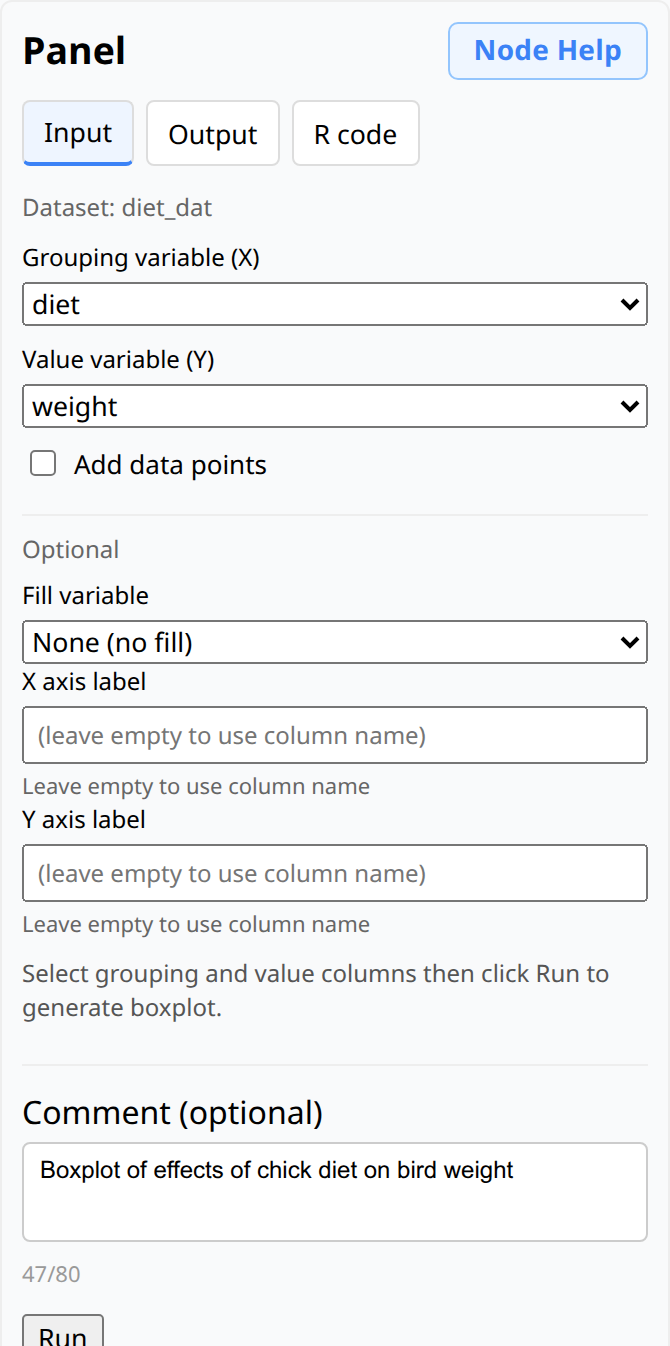
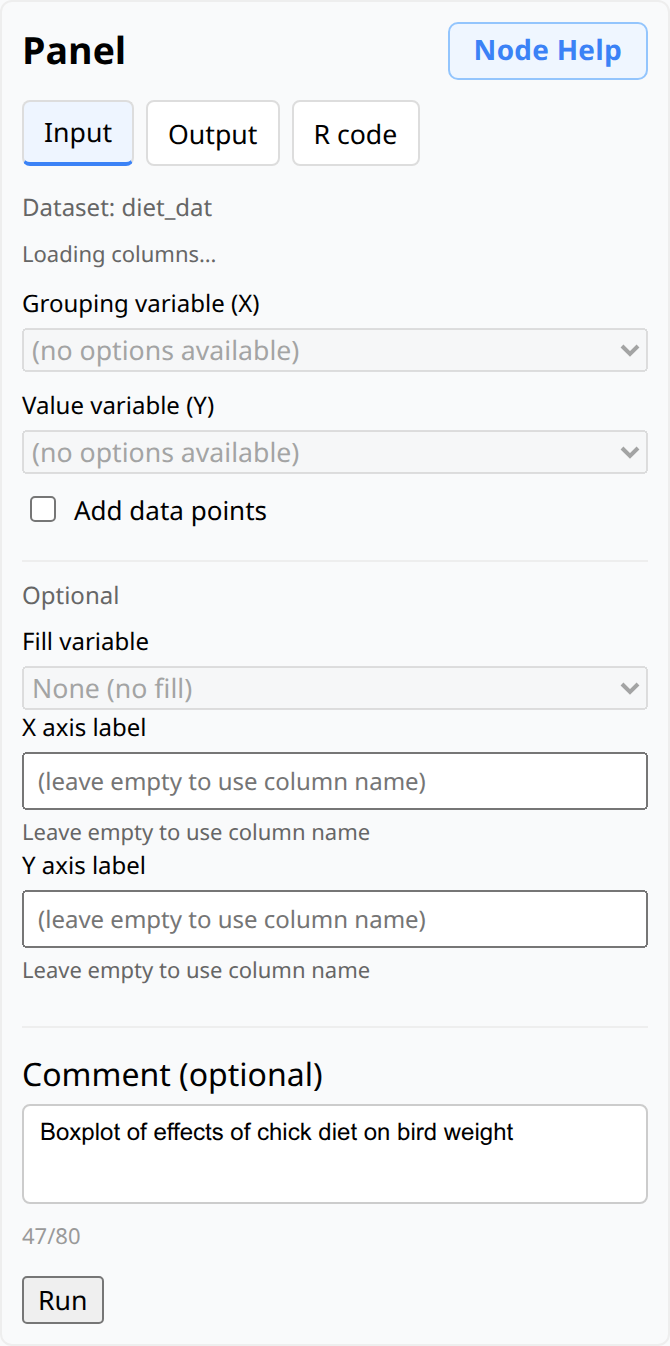
Means and SD node added

diff --git a/playwright/tests/tutorial1a.screenshots.spec.ts b/playwright/tests/tutorial1a.screenshots.spec.ts
@@ -356,4 +356,42 @@ test('capture tutorial 1a workflow and nodes', async ({ page }) => {
   await panel.screenshot({
     path: path.join(imagesDir, 'tutorial_1a_summary_r_code_panel.png'),
   });
+
+  // Capture the Means / SD node's Input, Output, and R code panels.
+  const meanSD = canvas.locator('.react-flow__node').filter({ hasText: /mean/i }).first();
+  await expect(meanSD).toBeVisible({ timeout: 15_000 });
+  await meanSD.click();
+  await expect(panel).toBeVisible();
+  await panel.screenshot({
+    path: path.join(imagesDir, 'tutorial_1a_mean_input_panel.png'),
+  });
+
+  const meanSDSize = await panel.boundingBox();
+  if (!meanSDSize) {
+    throw new Error('Could not measure the Means / SD panel before capturing screenshots.');
+  }
+  await panel.evaluate((el, { width, height }) => {
+    el.style.boxSizing = 'border-box';
+    el.style.width = `${width}px`;
+    el.style.minHeight = `${height}px`;
+  }, meanSDSize);
+  const assertMeanSDSameSize = async () => {
+    const box = await panel.boundingBox();
+    expect(box?.width).toBeCloseTo(meanSDSize.width, 0);
+    expect(box?.height).toBeCloseTo(meanSDSize.height, 0);
+  };
+
+  await runNode();
+  await page.waitForTimeout(1500);
+  await assertMeanSDSameSize();
+  await panel.screenshot({
+    path: path.join(imagesDir, 'tutorial_1a_mean_output_panel.png'),
+  });
+
+  await tab('R code').click();
+  await page.waitForTimeout(500);
+  await assertMeanSDSameSize();
+  await panel.screenshot({
+    path: path.join(imagesDir, 'tutorial_1a_mean_r_code_panel.png'),
+  });
 });
